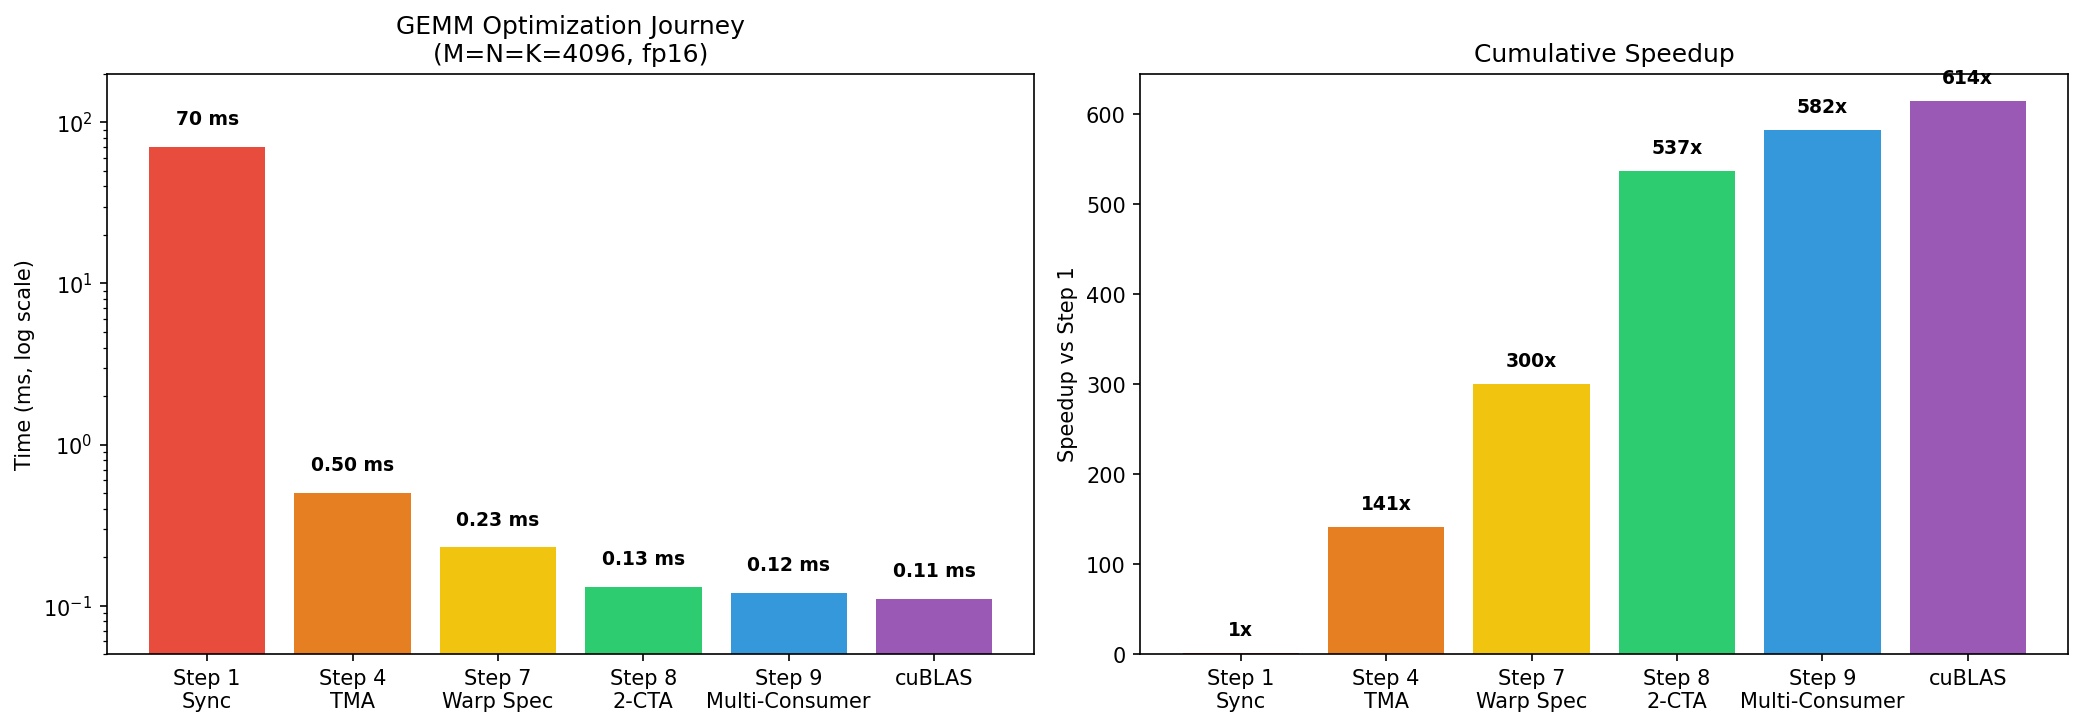
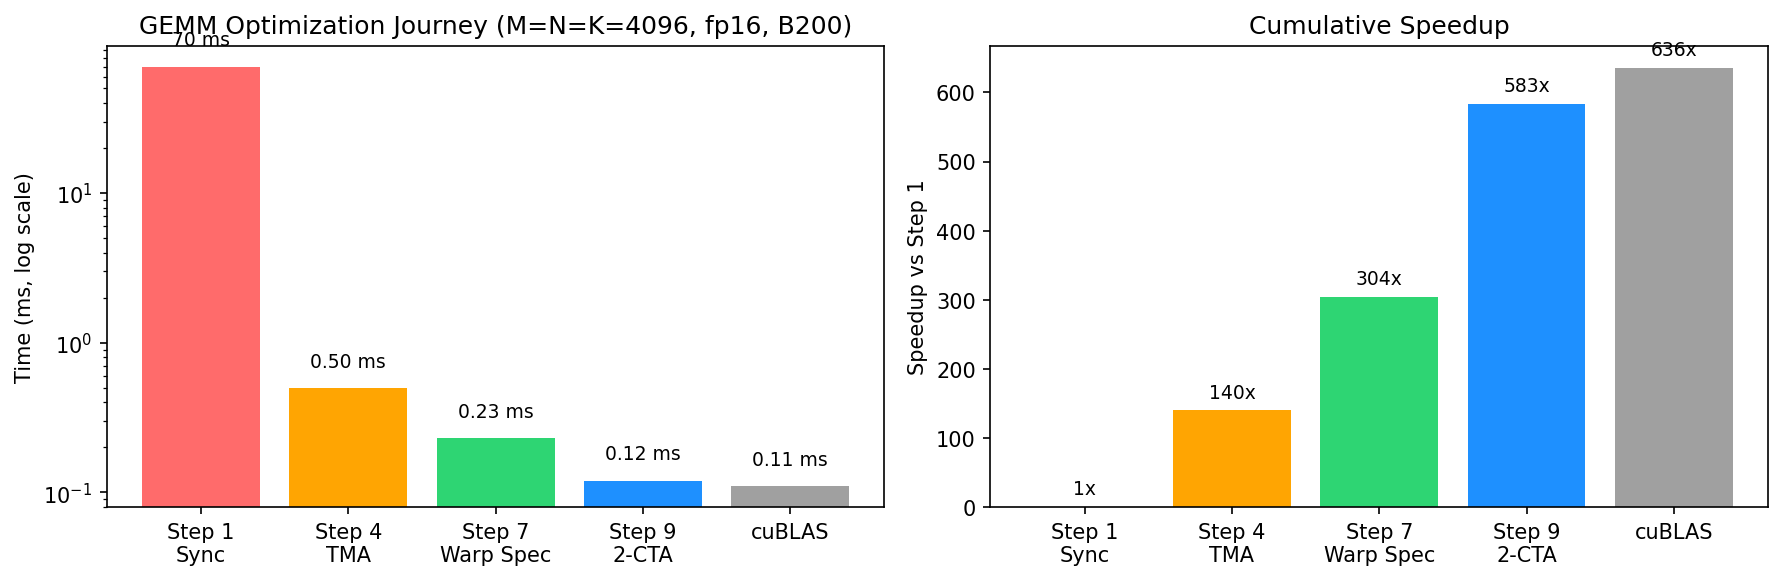
update

diff --git a/img/scripts/gen_gemm_perf.py b/img/scripts/gen_gemm_perf.py
@@ -4,7 +4,7 @@ matplotlib.use('Agg')
 import matplotlib.pyplot as plt
 
 steps = ['Step 1\nSync', 'Step 4\nTMA', 'Step 7\nWarp Spec', 'Step 9\n2-CTA', 'cuBLAS']
-times = [714, 5.8, 1.1, 0.9, 0.9]
+times = [70.0, 0.50, 0.23, 0.12, 0.11]
 colors = ['#ff6b6b', '#ffa502', '#2ed573', '#1e90ff', '#a0a0a0']
 
 fig, (ax1, ax2) = plt.subplots(1, 2, figsize=(12, 4))
@@ -13,17 +13,18 @@ fig, (ax1, ax2) = plt.subplots(1, 2, figsize=(12, 4))
 ax1.bar(steps, times, color=colors)
 ax1.set_yscale('log')
 ax1.set_ylabel('Time (ms, log scale)')
-ax1.set_title('GEMM Optimization Journey (M=N=K=8192, fp16)')
+ax1.set_title('GEMM Optimization Journey (M=N=K=4096, fp16, B200)')
 for i, (t, s) in enumerate(zip(times, steps)):
-    ax1.text(i, t * 1.3, f'{t} ms', ha='center', va='bottom', fontsize=9)
+    label = f'{t:.2f} ms' if t < 10 else f'{t:.0f} ms'
+    ax1.text(i, t * 1.3, label, ha='center', va='bottom', fontsize=9)
 
-# Right: speedup
-speedups = [1, 123, 649, 793, 793]
+# Right: speedup (cumulative vs Step 1)
+speedups = [round(times[0] / t) for t in times]
 ax2.bar(steps, speedups, color=colors)
 ax2.set_ylabel('Speedup vs Step 1')
 ax2.set_title('Cumulative Speedup')
 for i, s in enumerate(speedups):
-    ax2.text(i, s + 20, f'{s}x', ha='center', va='bottom', fontsize=9)
+    ax2.text(i, s + max(speedups) * 0.02, f'{s}x', ha='center', va='bottom', fontsize=9)
 
 plt.tight_layout()
 plt.savefig('../gemm_perf.png', dpi=150, bbox_inches='tight')

diff --git a/chapter_gemm_advanced/index.md b/chapter_gemm_advanced/index.md
@@ -370,7 +370,7 @@ With `cta_group=2`, the MMA hardware reads B from **both** CTAs' shared memory. 
 - With `cta_group=2`, the MMA hardware reads B from **both** CTAs' SMEM via cross-CTA shared memory access, so it sees all 256 columns of `[B0 | B1]`.
 - Result: `[A0; A1] × [B0 | B1]` = 256×256 output tile.
 
-Each CTA only loads 128×K of A and 128×K of B, but together they compute a 256×256 output — 2x arithmetic intensity with the same memory traffic.
+Each CTA still loads 128×K of A and 128×K of B (its own halves), but the cooperative MMA uses both CTAs' SMEM tiles to compute a 256×256 output — so the *flops per byte fetched by each CTA* roughly doubles.
 
 ### Tile Address Calculation
 
@@ -415,7 +415,7 @@ Tx.cuda.cluster_sync()
 
 - **Remote barrier view**: In a cluster, each CTA has its own SMEM and barriers. To synchronize across CTAs, CTA-1 needs to access CTA-0's barrier. `map_shared_rank(tma2mma.ptr_to([0]), 0)` returns a pointer to CTA-0's barrier that is accessible from any CTA in the cluster. The TIRX wrapper is `tma2mma.remote_view(0)`. All barrier operations (arrive, wait) target CTA-0's barriers — this is the coordination point.
 
-- **MMA dispatch from CTA-0 only**: With `cta_group=2`, CTA-0 issues one `tcgen05.mma` instruction, and the hardware automatically dispatches the computation to **both** CTAs' tensor cores simultaneously. CTA-1 does not issue any MMA instruction — the hardware handles this coordination internally. This is why the code guards MMA with `if cbx == 0:`.
+- **MMA dispatch from CTA-0 only**: With `cta_group=2`, CTA-0 issues one `tcgen05.mma`. The hardware drives a *single cooperative* MMA that spans both CTAs in the cluster — it reads operands from both SMs' SMEM and writes the accumulator across both SMs' TMEM. CTA-1 does not issue any MMA instruction. (Each SM still has only one `tcgen05` engine; "cta_group=2" is one cross-SM MMA, not two engines firing in parallel.) This is why the code guards MMA with `if cbx == 0:`.
 
 - **Multicast arrive**: Similarly, `tcgen05.commit(..., cta_group=2, cta_mask=3)` is issued only by CTA-0 but signals both CTAs' barriers. `cta_mask=3` (binary `11`) means both CTA-0 and CTA-1 are targeted.
 
@@ -1067,29 +1067,29 @@ Reference numbers on NVIDIA B200, M=N=K=4096, fp16, locked clocks, 1000-iteratio
 
 | Step | Technique | Time | Speedup |
 |------|-----------|------|---------|
-| 1 | Sync load + MMA | 70 ms | 1x |
+| 1 | Sync load + MMA | 70 ms | 1× |
 | 2 | K-loop accumulation | --- | Handle arbitrary K |
 | 3 | Spatial tiling | --- | Handle arbitrary M, N |
-| 4 | TMA async load | 0.50 ms | 141x |
+| 4 | TMA async load | 0.50 ms | ~140× |
 | 5 | Software pipeline | --- | Overlap load + compute |
 | 6 | Persistent kernel | --- | L2 cache locality |
-| 7 | Warp specialization | 0.23 ms | 300x |
-| 8 | 2-CTA cluster | 0.13 ms | 537x |
-| 9 | Multi-consumer | 0.12 ms | 582x |
-| --- | cuBLAS (reference) | 0.11 ms | 614x |
+| 7 | Warp specialization | 0.23 ms | ~304× |
+| 8 | 2-CTA cluster | 0.13 ms | ~538× |
+| 9 | Multi-consumer | 0.12 ms | ~583× |
+| --- | cuBLAS (reference) | 0.11 ms | ~636× |
 
 The `{.python .input}` benchmark cells embedded in each step above ran a short 10-iteration timed loop without clock locking, so the numbers you saw printed are typically 2-5× slower than the table on a casual GPU — same ordering, same trends, just not peak.
 
 The 4 key optimization techniques that deliver the biggest gains:
 
-1. **TMA Async Data Movement** — hardware copy engine replaces software copy (141× from Step 1 → Step 4).
-2. **Software Pipelining + Warp Specialization** — overlap load and compute with dedicated roles (~2× from Step 4 → Step 7).
-3. **CTA Clusters** — 2-SM cooperative MMA doubles arithmetic intensity (~2× from Step 7 → Step 8).
-4. **Multi-Consumer** — two MMA warps for higher compute density (~10% from Step 8 → Step 9).
+1. **TMA Async Data Movement** — hardware copy engine replaces software copy (~140× from Step 1 → Step 4).
+2. **Software Pipelining + Warp Specialization** — overlap load and compute with dedicated roles (~2.2× from Step 4 → Step 7).
+3. **CTA Clusters** — 2-SM cooperative MMA doubles per-CTA FLOPs/byte (~1.8× from Step 7 → Step 8).
+4. **Multi-Consumer** — two MMA warps for higher compute density (~8% from Step 8 → Step 9).
 
 ![GEMM Optimization Journey](../img/gemm_perf.png)
 
-582× total speedup: from 70 ms to 0.12 ms — within 10% of cuBLAS.
+~583× total speedup: 70 ms → 0.12 ms — within ~10% of cuBLAS (0.11 ms).
 
 
 ## Exercises

diff --git a/chapter_background/index.md b/chapter_background/index.md
@@ -12,7 +12,7 @@ Blackwell organizes threads into a nested hierarchy:
 
 - **CTA** — short for *Cooperative Thread Array*, the same concept that CUDA programmers know as a thread block. It is the basic scheduling unit: a CTA runs on a single SM and has access to that SM's shared memory. A CTA contains one or more warpgroups of 128 threads each; most kernels in this tutorial use one warpgroup per CTA, and the warp-specialized kernels in :numref:`chap_gemm_advanced` and :numref:`chap_flash_attention` use up to four.
 
-- **Warpgroup**: 4 consecutive warps (128 threads). On Blackwell, the warpgroup is the cooperation unit for TMEM reads — the 128 `TLane` rows match the 128 threads one-to-one. `tcgen05.mma` itself is issued by a single elected thread, but its tile granularity along M matches a warpgroup, so the warpgroup remains the natural scope for a GEMM stage (see the *Tensor Core Generational Evolution* subsection below for details).
+- **Warpgroup**: 4 consecutive warps (128 threads). On Blackwell, the warpgroup is the cooperation unit for TMEM reads — the 128 `TLane` rows match the 128 threads one-to-one. `tcgen05.mma` itself is issued by a single elected thread; its $M$ dimension can be 64 or 128 (and up to 256 in 2-CTA cooperative mode), but a tile of $M=128$ matches the warpgroup row-for-row, so the warpgroup remains the natural scope for a GEMM stage (see the *Tensor Core Generational Evolution* subsection below for details).
 
 - **Warp**: A warp contains 32 threads and is the basic SIMT execution unit.
 
@@ -37,7 +37,7 @@ The typical data flow for a kernel that uses Tensor Cores:
 
 The key difference from earlier GPU generations is that tcgen05 writes accumulator results to TMEM first, and software later moves them to registers or shared memory as needed.
 
-**Tensor Memory (TMEM)** is new in Blackwell. It is a high-bandwidth scratchpad memory private to the Tensor Cores. The tcgen05 MMA unit writes its accumulator output directly to TMEM, not to registers or shared memory.
+**Tensor Memory (TMEM)** is new in Blackwell. It is a per-SM, high-bandwidth scratchpad memory used by the `tcgen05` MMA path. The MMA unit writes its accumulator output directly to TMEM, not to registers or shared memory.
 
 - **TMEM reads are explicit and cooperative.** To consume MMA results, software must explicitly load from TMEM into the register file. These reads are performed cooperatively by the full warpgroup (128 threads).
 
@@ -72,12 +72,12 @@ This is in contrast to **CUDA cores**, the GPU's classic general-purpose ALUs th
 | | **CUDA core** | **Tensor Core** ($\texttt{tcgen05}$ on Blackwell) |
 |:--|:--|:--|
 | Granularity | 1 scalar FMA per instruction | $M \times N \times K$ FMAs per instruction |
-| Execution model | SIMT: 32 threads per warp, each issues its own instruction | Single thread (or 2-CTA pair) issues one MMA; hardware runs the tile asynchronously |
+| Execution model | SIMT: 32 threads per warp, each issues its own instruction | A single elected thread issues one MMA (CTA-0 only when `cta_group=2`); hardware runs the tile asynchronously |
 | Operands live in | Register file | SMEM (via matrix descriptors) and/or TMEM |
 | Accumulator in | Register file | **TMEM** on Blackwell (on-chip SM-local scratchpad, separate from the register file) |
 | Typical dtypes | fp32 / fp64 / int32 — general-purpose | fp16 / bf16 / fp8 / fp4 / tf32 — low-precision GEMM-friendly |
 | Used for | elementwise, reductions, index math, control flow, everything non-GEMM | dense matrix multiply, convolution, attention $QK^{\top}$ and $PV$ |
-| Peak on HGX B200 | ~75 TFLOPS (fp32) | ~2.25 PFLOPS (fp16/bf16) &rarr; up to ~9 PFLOPS (fp4) |
+| Peak per B200 GPU (approx.) | ~75 TFLOPS (fp32) | ~2.25 PFLOPS (fp16/bf16) &rarr; up to ~9 PFLOPS (fp4) |
 
 The architectural motivation is simple: dense matrix multiplication dominates deep-learning workloads, has high arithmetic intensity ($O(N^3)$ FLOPs on $O(N^2)$ data), and is therefore compute-bound on a well-fed GPU. A dedicated MMA unit reaches peak throughput that scalar FMAs never can.
 
@@ -131,7 +131,7 @@ Understanding why Blackwell's MMA API looks the way it does is easier once you s
 
 Three trends drive the API you will use in TIRX:
 
-1. **Tile scope grew from warp to warpgroup to 2-CTA; issue scope shrank to a single thread.** Volta and Ampere treated MMA as a per-warp operation: all 32 threads in a warp collectively execute the instruction and pool their registers to hold A, B, and D. Hopper moved the *tile* scope to a warpgroup — a single `wgmma` spans 128 threads' worth of data — but the *issue* was still collective: all 128 threads had to execute the instruction. Blackwell decouples the two. `tcgen05.mma` is issued by a **single elected thread**, which frees the other 127 threads of the warpgroup to do TMA issuing, softmax, or the epilogue in parallel. The MMA tile still matches warpgroup granularity along $M$ (128 rows of `TLane`), and in *2-CTA* cooperative mode two SMs jointly produce a 256-row tile.
+1. **Tile scope grew from warp to warpgroup to 2-CTA; issue scope shrank to a single thread.** Volta and Ampere treated MMA as a per-warp operation: all 32 threads in a warp collectively execute the instruction and pool their registers to hold A, B, and D. Hopper moved the *tile* scope to a warpgroup — a single `wgmma` spans 128 threads' worth of data — but the *issue* was still collective: all 128 threads had to execute the instruction. Blackwell decouples the two. `tcgen05.mma` is issued by a **single elected thread**, which frees the other 127 threads of the warpgroup to do TMA issuing, softmax, or the epilogue in parallel. The MMA $M$ dimension is up to 128 (warpgroup-sized: $M \in \{64, 128\}$ for fp16/bf16 with `cta_group=1`; $M=128$ is the common choice and pairs the 128 `TLane` rows one-to-one with the warpgroup's 128 threads), and in *2-CTA* cooperative mode two SMs jointly produce a tile up to 256 rows.
 
 2. **Operands migrated from RF to SMEM (and TMEM).** Reading A and B from registers forced every thread to hold a share of the tile in its register file. As tile sizes grew, RF pressure became the binding constraint: Hopper's `wgmma` already reads B from SMEM, and one variant reads A from SMEM too. Blackwell completes the move by reading A from either SMEM or TMEM. The result: no matter how large the MMA tile, RF usage does not grow with it.
 
@@ -286,10 +286,10 @@ Throughout Part III we benchmark kernels against the Blackwell hardware limits. 
 | Shared memory per SM | 228 KB | SMEM budget for pipeline depth |
 | Tensor memory per SM | 128 lanes × 512 cols (32-bit) | TMEM accumulator budget |
 | Registers per thread (max) | 255 × 32-bit | why accumulators moved off-RF |
-| FP16/BF16 Tensor Core throughput | ~2.25 PFLOPS (dense) | GEMM roof |
-| FP8 / FP4 Tensor Core throughput | ~4.5 / ~9 PFLOPS (dense) | mixed-precision GEMM |
+| tcgen05 peak @ FP16/BF16 (dense) | ~2.25 PFLOPS | GEMM roof |
+| tcgen05 peak @ FP8 / FP4 (dense) | ~4.5 / ~9 PFLOPS | mixed-precision GEMM |
 | HBM3e bandwidth | ~8 TB/s | bandwidth roof |
-| L2 cache | ~100 MB | where tile operands actually live after warm-up |
+| L2 cache | ~100 MB (B200) / ~126 MB (GB200) | where tile operands actually live after warm-up |
 | HBM cold-miss break-even AI | ~281 FLOP/B | only binds if L2 reuse fails |
 | One fp16 128×64 tile in SMEM | 16 KB | TMA transfer granularity |
 

diff --git a/chapter_api_reference/index.md b/chapter_api_reference/index.md
@@ -26,7 +26,7 @@ This chapter provides a comprehensive reference for the TIRX APIs used in this t
 | `Tx.thread_id_in_wg([128])` | Thread index within the warpgroup (warpgroup → thread; always 128) |
 | `Tx.lane_id([32])` | Thread index within a warp (warp → thread; always 32) |
 | `Tx.cuda.thread_rank()` | Linear thread index within the CTA (i.e., `threadIdx.x + threadIdx.y * blockDim.x + ...`). Used as the default `leader` predicate for one-thread-per-CTA work such as `MBarrier.init`. |
-| `Tx.ptx.elect_sync()` | Elect one thread in a warp (for single-thread dispatch) |
+| `Tx.ptx.elect_sync()` | Elect one thread *per warp* (so 4 threads in a 4-warp warpgroup). Good for `tcgen05.commit` and TMA stores; for TMA *loads* prefer `tid_in_wg == 0` so `expect_tx` is incremented exactly once. |
 
 
 ## Function Parameters

diff --git a/chapter_layouts/index.md b/chapter_layouts/index.md
@@ -193,7 +193,7 @@ with Tx.thread(tid_in_wg == 0):                            # first thread of thi
     Tx.ptx.mbarrier.init(Tx.address_of(bar), 1)             # raw mbarrier.init(ptr, count)
 ```
 
-`Tx.ptx.elect_sync()` is the most common filter: it returns a mask with exactly one thread selected per warp, which is the granularity TMA and `tcgen05.commit` demand. You saw the ad-hoc version of this in the no-sugar GEMM as `if tx == 0:` — a correct predicate, but one that guards individual intrinsic calls instead of a full block of code.
+`Tx.ptx.elect_sync()` is the most common filter: it returns a mask with **exactly one thread selected per warp** (so 4 threads in a 4-warp warpgroup). That is the granularity `tcgen05.commit` and most TMA *stores* want. **TMA loads are a subtlety** — the byte counter (`expect_tx`) must be incremented exactly once per stage, so the load-side issue thread is usually picked with `tid_in_wg == 0` (one thread per warpgroup) rather than `elect_sync`; see :numref:`chap_gemm_async` Step 4 for the full discussion. You saw the ad-hoc version of this in the no-sugar GEMM as `if tx == 0:` — a correct predicate, but one that guards individual intrinsic calls instead of a full block of code.
 
 The `Tx.filter(var, ...)` form has two shapes: a range, `Tx.filter(var, lo, hi)`, and a predicate, `Tx.filter(var, cond_expr)`. The first argument is always a coordinate variable produced by `Tx.cta_id` / `Tx.warp_id` / `Tx.lane_id` / etc., so the compiler knows which axis is being narrowed.
 